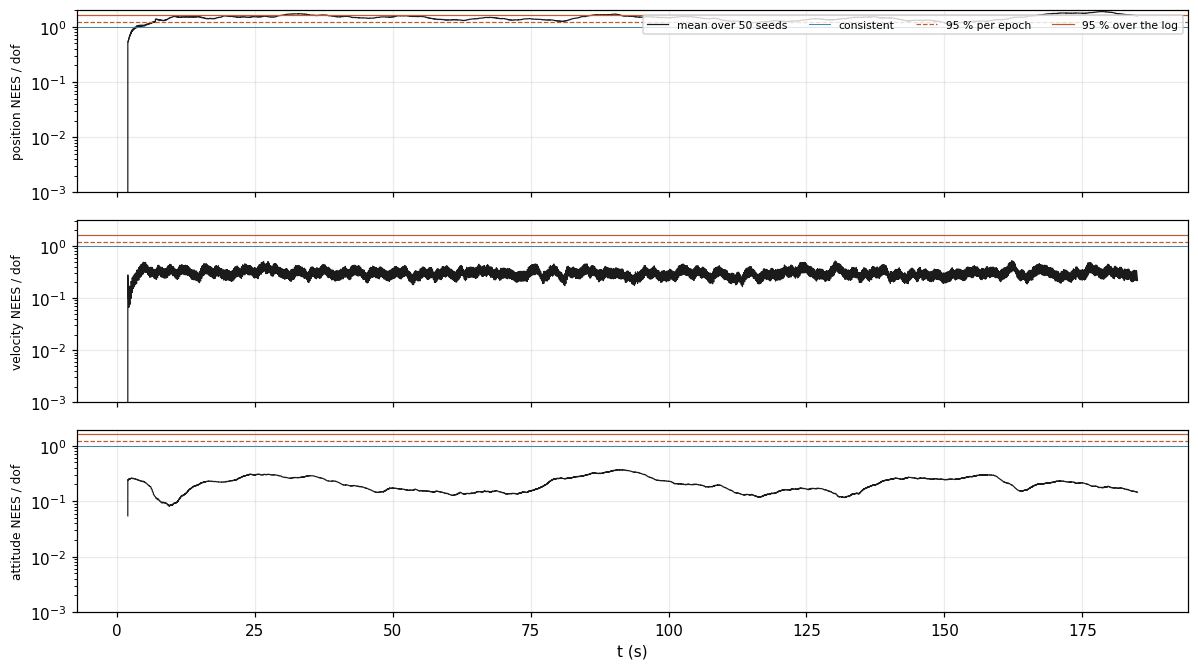
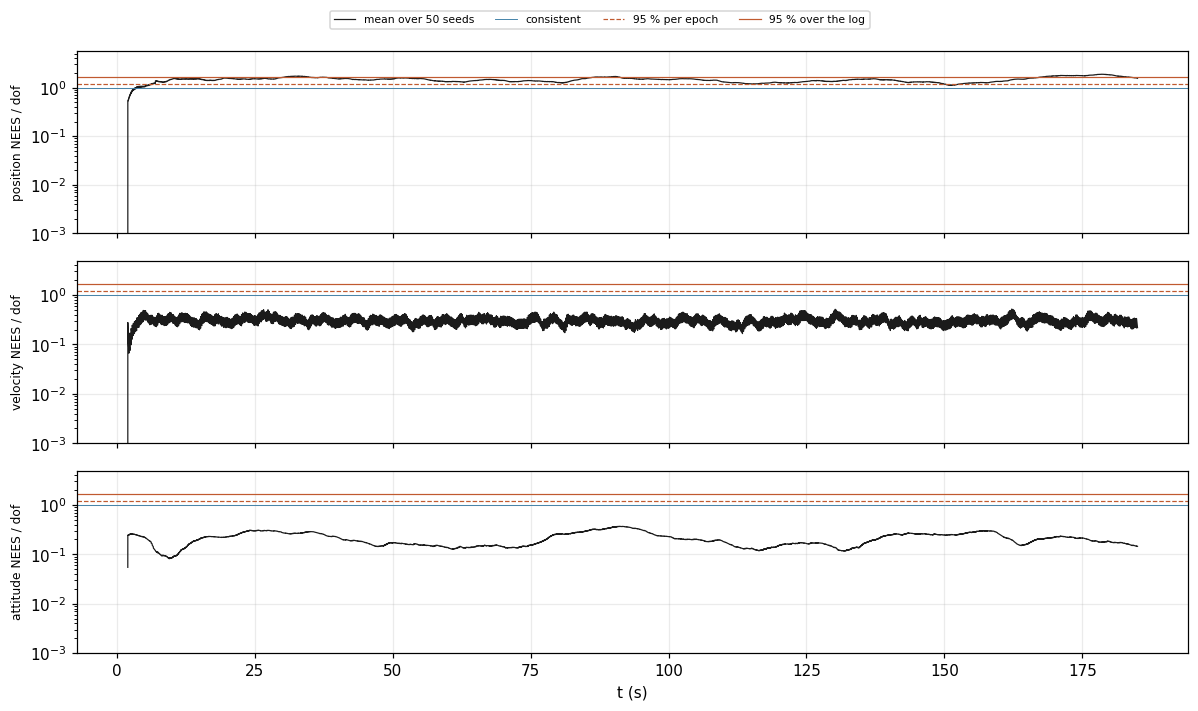
validation: regenerate at 551a203

diff --git a/validation/ekf2.md b/validation/ekf2.md
@@ -7,7 +7,7 @@ horizontal velocity agrees to 0.1064 m/s RMS north and tilt to
 reason: a receiver that overstates its accuracy, a hand launch levelled wrong, and a barometer
 the two filters trust differently. Each is shown below, beside one offset nothing yet explains.
 
-Generated by `tools/validation.sh` at `b479a64`; every figure on this page is from that build, and `tools/validation.sh --check` re-derives them.
+Generated by `tools/validation.sh` at `551a203`; every figure on this page is from that build, and `tools/validation.sh --check` re-derives them.
 
 **EKF2 is not truth.** Every number on this page is a distance between two estimators fed the
 same log, so it measures agreement and never accuracy. A disagreement is a finding to explain,
@@ -45,35 +45,35 @@ Fused `raw`:
 
 | run | `pos_n_rms` | `pos_e_rms` | `pos_d_rms` | `vel_n_rms` | `tilt_diff_rms` | `heading_diff_med` | `rej_s_gnss_pos` | `rej_s_gnss_pos_ekf2` |
 |---|---|---|---|---|---|---|---|---|
-| `89a498ce/raw` | 4.739 | 1.816 | 0.6877 | 0.1064 | 0.3702 | 0.8890 | 0.000 | 0.000 |
-| `093e806a/raw` | 1.595 | 1.813 | 0.6062 | 0.2660 | 0.5448 | 2.069 | 278.8 | 304.9 |
-| `2c42096b/raw` | 0.2912 | 0.2765 | 11.23 | 0.09055 | 0.3351 | 0.5530 | 0.000 | 0.000 |
-| `4b473e91/raw` | 1.435 | 2.675 | 0.6497 | 0.3589 | 0.7082 | 3.371 | 2.007 | 0.000 |
-| `285ee2e7/raw` | 0.5599 | 0.8803 | 1.576 | 0.1471 | 0.4736 | 1.318 | 2.996 | 0.000 |
-| `7ce66f0d/raw` | 17.33 | 21.44 | 10.66 | 4.864 | 2.488 | 5.309 | 93.92 | 0.000 |
-| `cd7e0001/raw` | 1.750 | 2.013 | 1.222 | 0.1385 | 0.3920 | 1.036 | 0.000 | 0.000 |
-| `eb799954/raw` | 0.7337 | 0.8546 | 0.5987 | 0.1285 | 0.3661 | 4.938 | 0.000 | 0.000 |
-| `a299e722/raw` | 1.001 | 1.673 | 2.614 | 0.4636 | 2.108 | 13.55 | 0.000 | 0.000 |
-| `f16771dd/raw` | none | none | none | 4.001 | 1.531 | 170.1 | none | 0.000 |
-| `7592c9b2/raw` | none | none | none | 0.5181 | 0.7511 | 0.4907 | none | 0.000 |
 | `3949f175/raw` | 0.3451 | 0.1938 | 0.2748 | 0.1235 | 0.5840 | 17.41 | 0.000 | 0.000 |
+| `f16771dd/raw` | none | none | none | 4.001 | 1.531 | 170.1 | none | 0.000 |
+| `a299e722/raw` | 1.001 | 1.673 | 2.614 | 0.4636 | 2.108 | 13.55 | 0.000 | 0.000 |
+| `7592c9b2/raw` | none | none | none | 0.5181 | 0.7511 | 0.4907 | none | 0.000 |
+| `2c42096b/raw` | 0.2912 | 0.2765 | 11.23 | 0.09055 | 0.3351 | 0.5530 | 0.000 | 0.000 |
+| `89a498ce/raw` | 4.739 | 1.816 | 0.6877 | 0.1064 | 0.3702 | 0.8890 | 0.000 | 0.000 |
+| `eb799954/raw` | 0.7337 | 0.8546 | 0.5987 | 0.1285 | 0.3661 | 4.938 | 0.000 | 0.000 |
+| `cd7e0001/raw` | 1.750 | 2.013 | 1.222 | 0.1385 | 0.3920 | 1.036 | 0.000 | 0.000 |
+| `285ee2e7/raw` | 0.5599 | 0.8803 | 1.576 | 0.1471 | 0.4736 | 1.318 | 2.996 | 0.000 |
+| `4b473e91/raw` | 1.435 | 2.675 | 0.6497 | 0.3589 | 0.7082 | 3.371 | 2.007 | 0.000 |
+| `7ce66f0d/raw` | 17.33 | 21.44 | 10.66 | 4.864 | 2.488 | 5.309 | 93.92 | 0.000 |
+| `093e806a/raw` | 1.595 | 1.813 | 0.6062 | 0.2660 | 0.5448 | 2.069 | 278.8 | 304.9 |
 
 Fused at EKF2's floors (`px4`):
 
 | run | `pos_n_rms` | `pos_e_rms` | `pos_d_rms` | `vel_n_rms` | `tilt_diff_rms` | `heading_diff_med` | `rej_s_gnss_pos` | `rej_s_gnss_pos_ekf2` |
 |---|---|---|---|---|---|---|---|---|
-| `89a498ce/px4` | 4.729 | 1.826 | 1.080 | 0.09774 | 0.2526 | 0.6958 | 0.000 | 0.000 |
-| `093e806a/px4` | 1.576 | 1.798 | 0.8350 | 0.2386 | 0.4697 | 1.941 | 26.13 | 304.9 |
-| `2c42096b/px4` | 0.2899 | 0.2752 | 11.22 | 0.09054 | 0.2414 | 0.3997 | 0.000 | 0.000 |
-| `4b473e91/px4` | 1.430 | 2.704 | 0.6987 | 0.3573 | 0.7432 | 3.639 | 2.007 | 0.000 |
-| `285ee2e7/px4` | 0.3696 | 0.5699 | 2.162 | 0.1339 | 0.3517 | 1.058 | 0.000 | 0.000 |
-| `7ce66f0d/px4` | 16.70 | 20.92 | 10.60 | 4.788 | 2.269 | 5.615 | 101.0 | 0.000 |
-| `cd7e0001/px4` | 1.533 | 1.959 | 1.165 | 0.1303 | 0.3530 | 1.556 | 0.000 | 0.000 |
-| `eb799954/px4` | 0.6792 | 0.8092 | 1.070 | 0.1247 | 0.3582 | 5.037 | 0.000 | 0.000 |
-| `a299e722/px4` | 0.4163 | 0.3887 | 1.216 | 0.3531 | 1.963 | 7.590 | 0.000 | 0.000 |
-| `f16771dd/px4` | none | none | none | 4.001 | 1.531 | 170.1 | none | 0.000 |
-| `7592c9b2/px4` | none | none | none | 0.5181 | 0.7511 | 0.4907 | none | 0.000 |
 | `3949f175/px4` | 0.3451 | 0.1938 | 0.2747 | 0.1236 | 0.5844 | 17.41 | 0.000 | 0.000 |
+| `f16771dd/px4` | none | none | none | 4.001 | 1.531 | 170.1 | none | 0.000 |
+| `a299e722/px4` | 0.4163 | 0.3887 | 1.216 | 0.3531 | 1.963 | 7.590 | 0.000 | 0.000 |
+| `7592c9b2/px4` | none | none | none | 0.5181 | 0.7511 | 0.4907 | none | 0.000 |
+| `2c42096b/px4` | 0.2899 | 0.2752 | 11.22 | 0.09054 | 0.2414 | 0.3997 | 0.000 | 0.000 |
+| `89a498ce/px4` | 4.729 | 1.826 | 1.080 | 0.09774 | 0.2526 | 0.6958 | 0.000 | 0.000 |
+| `eb799954/px4` | 0.6792 | 0.8092 | 1.070 | 0.1247 | 0.3582 | 5.037 | 0.000 | 0.000 |
+| `cd7e0001/px4` | 1.533 | 1.959 | 1.165 | 0.1303 | 0.3530 | 1.556 | 0.000 | 0.000 |
+| `285ee2e7/px4` | 0.3696 | 0.5699 | 2.162 | 0.1339 | 0.3517 | 1.058 | 0.000 | 0.000 |
+| `4b473e91/px4` | 1.430 | 2.704 | 0.6987 | 0.3573 | 0.7432 | 3.639 | 2.007 | 0.000 |
+| `7ce66f0d/px4` | 16.70 | 20.92 | 10.60 | 4.788 | 2.269 | 5.615 | 101.0 | 0.000 |
+| `093e806a/px4` | 1.576 | 1.798 | 0.8350 | 0.2386 | 0.4697 | 1.941 | 26.13 | 304.9 |
 
 Four rows have a cause in the log rather than in either filter:
 
@@ -147,7 +147,8 @@ Position NED, with the filter's own +/-3 sigma band. Background shading is <code
 
 A standard VTOL that hovers, transitions and cruises
 2054.6 m out at up to 31.1 m/s. The
-logger drops the IMU 8 times, each for a second or more. This filter coasts
+logger drops the IMU 8 times, each longer than one step can
+integrate. This filter coasts
 each gap on its estimated velocity and accepts the next fix. With EKF2's origin moved onto this
 filter's, the two tracks stay together through the cruise
 (2.675 m RMS east).

diff --git a/validation/accuracy.md b/validation/accuracy.md
@@ -8,7 +8,7 @@ flight the horizontal position is off by 0.292 m RMS and never more than
 carries truth, so this page says how the filter does against the sensors the simulator models,
 not against a real vehicle's.
 
-Generated by `tools/validation.sh` at `b479a64`; every figure on this page is from that build, and `tools/validation.sh --check` re-derives them.
+Generated by `tools/validation.sh` at `551a203`; every figure on this page is from that build, and `tools/validation.sh --check` re-derives them.
 
 ## Where the truth comes from
 
@@ -47,11 +47,19 @@ Positions in metres, velocity in m/s, attitude in degrees.
 standing still, and every scenario from `harsh_imu` to `logging_dropout` is that circuit with
 one thing changed. `flight` is 14 s at 50 Hz, the file CI replays.
 
-Three rows lose to the baseline, and each loss is its scenario's point:
+Every departure from the baseline costs something, and what it costs is the scenario's point.
+Each is set against `mission`, the circuit it departs from:
 
+- `harsh_imu` flies a badly isolated IMU. Attitude pays: 0.828° of tilt
+  against 0.330°, while position barely moves.
 - `gnss_outage` drifts to 10.964 m during 20 s without GNSS. That is
   dead reckoning, and [robustness](robustness.md) shows the error staying inside the band the
   filter claimed while it grew.
+- `moving_start` has no still window to level from, which costs tilt and heading at the start;
+  the section below shows it converging.
+- `baro_drift` walks the barometer's reference away. Height pays:
+  0.918 m RMS against 0.171 m, honestly reported
+  ([robustness](robustness.md#a-drifting-barometer)).
 - `gnss_latency` fuses fixes 150 ms stale as if they were current, and pays
   2.197 m RMS for it against the baseline's 0.292. The
   filter has no measurement-delay model yet (#52), and the [honesty page](honesty.md) shows it
@@ -59,6 +67,11 @@ Three rows lose to the baseline, and each loss is its scenario's point:
 - `correlated` makes every aiding error slower than the filter assumes. Its heading is off by
   2.306° RMS against the baseline's 0.289°, and its position covariance is
   overconfident (#51).
+- `mag_disturbance` costs a little heading, 0.309° against
+  0.289°, because the gate refuses the disturbed readings.
+- `logging_dropout` loses 1.2 s of the log; its worst horizontal error,
+  2.733 m against 0.767 m, is the first fix
+  after the gap.
 
 ## The baseline, over time
 
@@ -79,9 +92,8 @@ Velocity error, truth minus estimate, on navigation axes, inside the filter's ow
 Attitude error, truth minus estimate, on navigation axes, inside the filter's own +/-3 sigma on the same axis. Both come from one row of <code>replay.error.csv</code>, the error vector every <code>score</code> key reads. The vertical range is set by the error and the band's typical width, so where the band leaves the frame it is wider than drawn. Background shading is <code>Status</code>: amber Aligning, yellow Degraded, red DeadReckoning.
 
 The band is wide next to the error, and that is a finding rather than a margin to celebrate:
-the simulator's IMU is one to two orders quieter than `ImuNoise::default()`, on purpose, so the
-filter is pessimistic about every flight here. The [honesty page](honesty.md) measures by how
-much.
+the filter is pessimistic about these flights, and the
+[honesty page](honesty.md#pessimistic-by-design-of-the-test) says why and by how much.
 
 ## A start in motion
 

diff --git a/validation/honesty.md b/validation/honesty.md
@@ -1,13 +1,13 @@
 <!-- Generated from validation/src/honesty.md by tools/validation.sh; edit that, not this. -->
 # Honesty of the covariance
 
-**When the filter says "I'm within a metre", is it?** On nine of the eleven simulated scenarios
-yes, and by a wide margin: on the baseline the share of axis-epochs where the truth sits inside
-the filter's ±3σ is 1.0000. It is overconfident on two, fixes that arrive late
+**When the filter says "I'm within a metre", is it?** On every simulated scenario but
+`gnss_latency` and `correlated`, yes, and by a wide margin: on the baseline the share of axis-epochs where the truth sits inside
+the filter's ±3σ is 1.0000. It is overconfident on those two, fixes that arrive late
 (`gnss_latency`) and aiding errors that persist longer than it assumes (`correlated`), and this
 page shows both.
 
-Generated by `tools/validation.sh` at `b479a64`; every figure on this page is from that build, and `tools/validation.sh --check` re-derives them.
+Generated by `tools/validation.sh` at `551a203`; every figure on this page is from that build, and `tools/validation.sh --check` re-derives them.
 
 ## Why this is its own question
 
@@ -18,14 +18,14 @@ more accurate and more overconfident at once.
 
 Two measures, both against truth from the simulator:
 
-- **Within 3σ** (`in3s`): the fraction of epochs, over all 15 states, where the error on an axis
+- **Within 3σ** (`in3s`): the fraction of axis-epochs, over all 15 states, where the error on an axis
   is inside three standard deviations of that axis. Axis by axis, so it reads the diagonal only.
 - **NEES**: `δxᵀ P⁻¹ δx` for the position, velocity and attitude blocks, divided by the three
   degrees of freedom. It reads the correlations as well. A covariance that describes its error
   exactly averages 1; below 1 it is pessimistic, above it overconfident.
 
-One flight can be unlucky, so the test that decides is over **50 flights** of each scenario, on
-seeds 1 to 50: `data/anees.sh` averages NEES across them at every epoch (ANEES) and gates it in
+One flight can be unlucky, so the test that decides is over **50 flights**
+of each scenario, on seeds 1 to 50: `data/anees.sh` averages NEES across them at every epoch (ANEES) and gates it in
 CI against the chi-square bound an honest filter stays under 95 % of the time.
 
 ## One flight each
@@ -49,7 +49,7 @@ The pinned run of each scenario, the one the [accuracy page](accuracy.md) tabula
 `false_valid` counts quantity-epochs where `Validity` said a quantity was usable and the truth
 error was outside `Config::accuracy`: the lie, counted where an integrator would act on it.
 
-## Fifty flights each
+## Over the ensemble
 
 `anees_` is the mean over epochs of the ensemble average, per degree of freedom. `any_` counts
 epochs where the ensemble average crosses the bound made family-wise over the whole log (on the

diff --git a/VALIDATION.md b/VALIDATION.md
@@ -3,11 +3,11 @@
 
 **Should you trust this filter, and where can you check?** On simulated flights, where the true
 answer is known, it holds horizontal position to 0.292 m RMS, and its
-covariance errs on the pessimistic side, except in the two cases the pages below name. On real
+covariance errs on the pessimistic side, except where the pages below name it overconfident. On real
 PX4 flights, where nothing is known exactly, it agrees with EKF2 wherever both filters are fed
 the same trust in the receiver, and each disagreement is shown with its cause, or marked as open.
 
-Generated by `tools/validation.sh` at `b479a64`; every figure on this page is from that build, and `tools/validation.sh --check` re-derives them.
+Generated by `tools/validation.sh` at `551a203`; every figure on this page is from that build, and `tools/validation.sh --check` re-derives them.
 
 Every number on these pages is copied off a line a tool in this repository printed, and every
 figure is drawn from the run it describes. `tools/validation.sh` regenerates all of it, and
@@ -19,7 +19,7 @@ The questions need different evidence, so they get a page each (`GOALS.md`,
 
 ## [Accuracy](validation/accuracy.md): how close, when the truth is known
 
-Eleven simulated scenarios scored against analytic truth. On the baseline circuit: position
+11 simulated scenarios scored against analytic truth. On the baseline circuit: position
 0.292 m RMS horizontal and 0.171 m vertical, velocity
 0.138 m/s, tilt 0.330° and heading 0.289°.
 
@@ -30,7 +30,7 @@ Position error, truth minus estimate, on navigation axes, inside the filter's ow
 ## [Honesty](validation/honesty.md): when it says "within a metre", is it
 
 The covariance tested against truth over 50 flights per scenario. It is pessimistic everywhere
-except two scenarios, where it is overconfident: GNSS fixes arriving late (position ANEES
+except where it is overconfident: GNSS fixes arriving late (position ANEES
 4.0577, #52) and aiding errors slower than it assumes
 (1.4498, #51).
 
@@ -50,7 +50,7 @@ Position error, truth minus estimate, on navigation axes, inside the filter's ow
 
 ## [Agreement with EKF2](validation/ekf2.md): on real flights, beside what PX4 flies
 
-Twelve PX4 logs, each replayed twice: once with the receiver's reported noise, and once at
+12 PX4 logs, each replayed twice: once with the receiver's reported noise, and once at
 EKF2's own floors. EKF2 is not truth, so this page measures agreement, not accuracy. On the RTK
 baseline, velocity agrees to 0.1064 m/s RMS north and tilt to
 0.3702°. The largest disagreement is a hand launch this

diff --git a/validation/robustness.md b/validation/robustness.md
@@ -6,7 +6,7 @@ inside the band the filter claims. During the fault, the filter either widens th
 the bad measurement down, and `Status` reports that aiding stopped. The exception is GNSS fixes
 arriving late. The filter has no model for that yet, and it pays in both accuracy and honesty.
 
-Generated by `tools/validation.sh` at `b479a64`; every figure on this page is from that build, and `tools/validation.sh --check` re-derives them.
+Generated by `tools/validation.sh` at `551a203`; every figure on this page is from that build, and `tools/validation.sh --check` re-derives them.
 
 Each scenario here is the baseline `mission` circuit with one fault injected, flown at the seed
 `data/scenarios.txt` pins. Each figure is the truth error inside the filter's own ±3σ band. The
@@ -57,7 +57,7 @@ Position error, truth minus estimate, on navigation axes, inside the filter's ow
 
 ## A drifting barometer
 
-The barometer's reference drifts 2 cm/s away from the one fixed at startup, 3.7 m over the
+The barometer's reference drifts 2 cm/s away from the one fixed at startup, for the whole
 flight. The filter estimates that offset as it flies, equation (30′), and hands the low
 frequencies of height to GNSS. So height is off by 0.918 m RMS where the
 baseline reads 0.171, and the covariance stays honest about it
